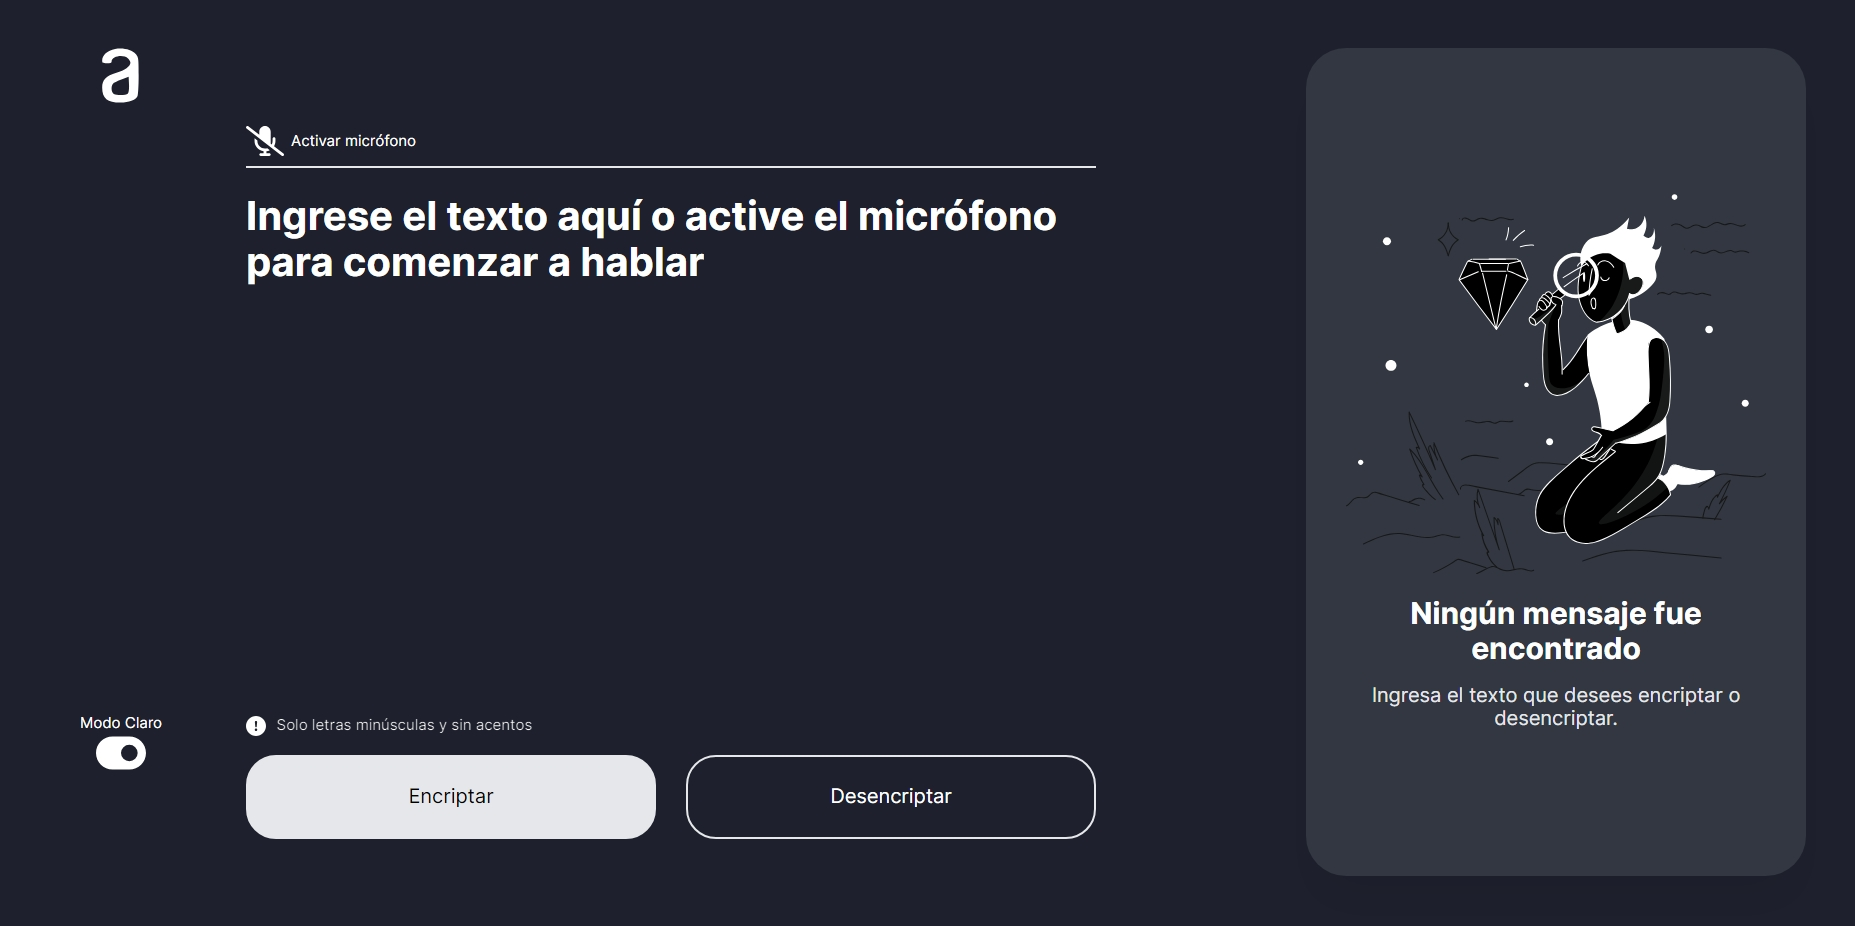
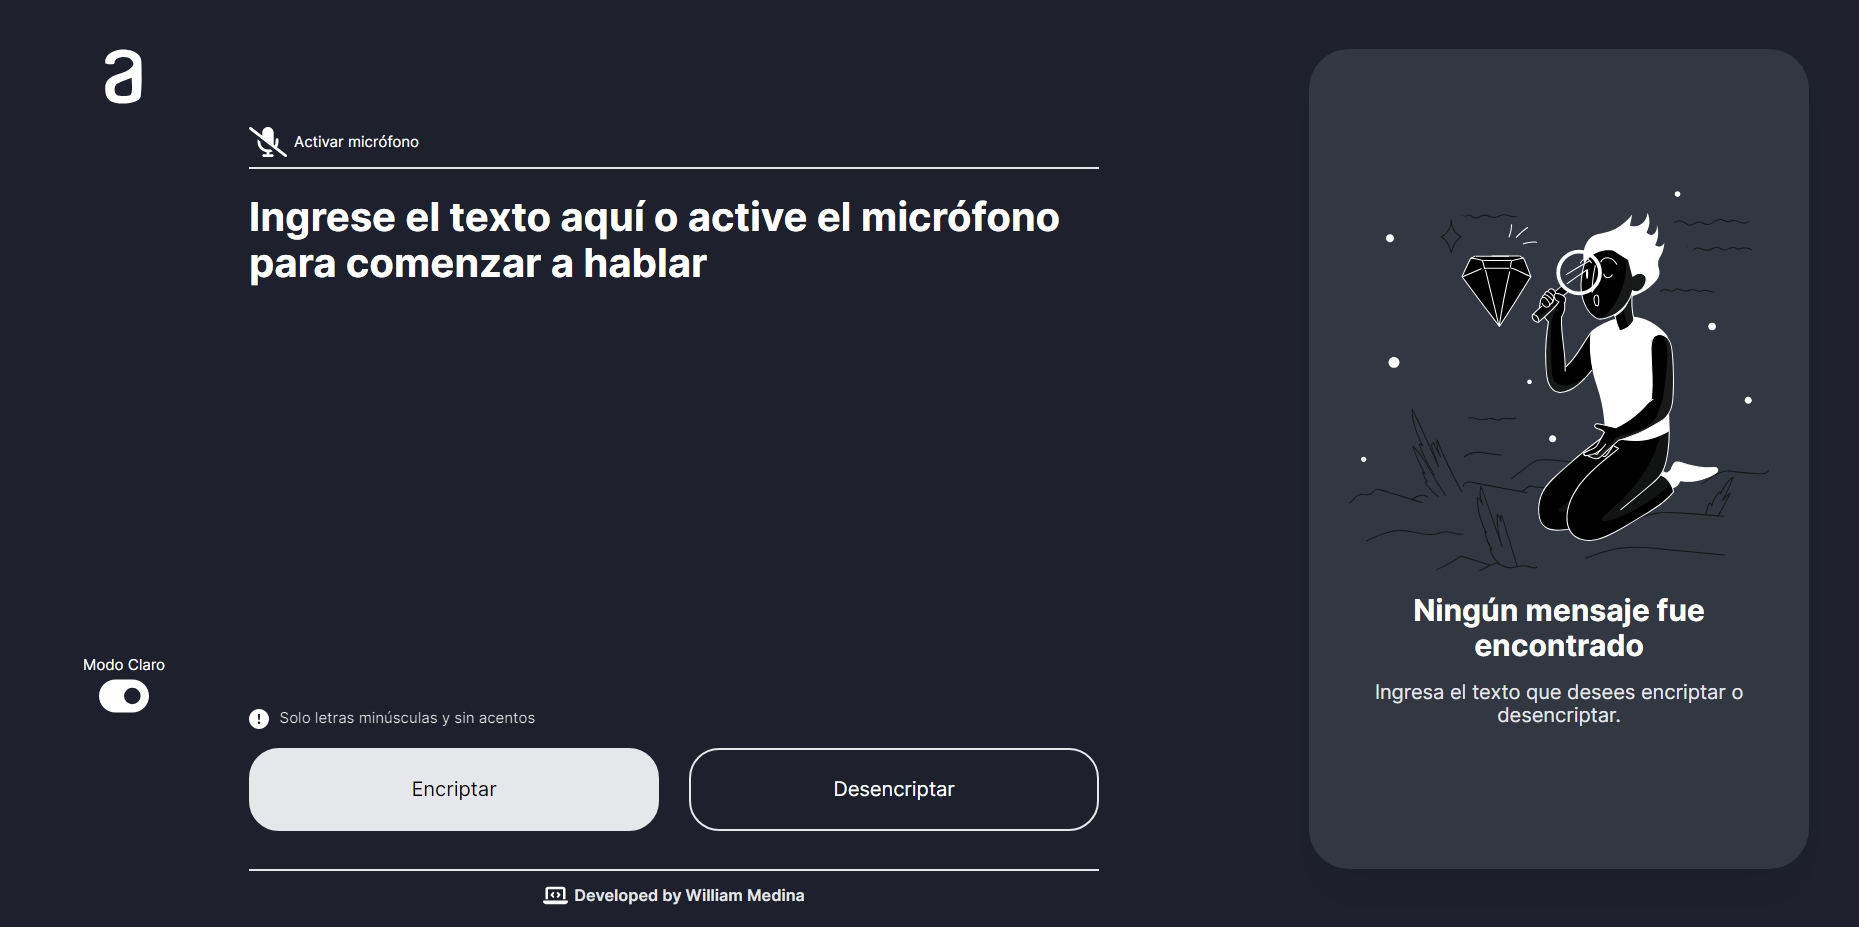
Añadir componente de footer a la aplicación

diff --git a/css/style.css b/css/style.css
@@ -29,11 +29,18 @@ html {
 body {
     background-color: var(--primary-color);
     font-family: var(--inter-font);
-    display: flex;
+    display: grid;
+    grid-template-columns: auto 1fr;
+    grid-template-rows: 1fr auto;
+    grid-template-areas:
+        "header main"
+        "footer footer";
     height: 100vh;
 }
 
 header {
+    width: auto;
+    grid-area: header;
     margin: 40px;
     display: flex;
     flex-direction: column;
@@ -41,10 +48,39 @@ header {
 }
 
 main {
+    grid-area: main;
     display: flex;
     justify-content: space-between;
     width: 100%;
 }
+
+footer {
+    grid-area: footer;
+    margin-left: 200px;
+}
+
+.footer__container {
+    display: flex;
+    justify-content: center;
+    margin-bottom: 15px;
+    border-top: 2px solid var(--secondary-color);
+    width: 680px;
+    padding-top: 10px;
+}
+
+.footer__icon {
+    height: 20px;
+    width: 20px;
+}
+
+.footer__text {
+    line-height: 2rem;
+    margin-left: 5px;
+    color: #495057;
+    text-align: center;
+    font-size: 1.3rem;
+    font-weight: 600;
+}   
 
 .header__logo {
     width: 120px;
@@ -127,7 +163,7 @@ main {
 .actions__buttons {
     display: flex;
     justify-content: space-between;
-    margin-bottom: 70px;
+    margin-bottom: 30px;
     gap: 10px;
 }
 
@@ -163,6 +199,7 @@ main {
     flex-direction: column;
     justify-content: center;
     margin: 40px;
+    margin-bottom: 0;
     background-color: var(--white-color);
     border-radius: 32px;
     width: 336px;
@@ -228,7 +265,7 @@ main {
 
 @media (max-width: 1300px) {
     .text-input {
-        width: 50%;
+        width: 60%;
     }
 
     .text-input__textarea {
@@ -239,13 +276,22 @@ main {
     .result__output {
         max-width: 330px;
     }
+
+    .footer__container {
+        width: calc(100% - 480px)
+    } 
 }
 
 @media (max-width: 768px) {
     body {
-        flex-direction: column;
         justify-content: center;
         height: auto;
+        grid-template-columns: 100%;
+        grid-template-rows: repeat(3, auto);
+        grid-template-areas:
+            "header"
+            "main"
+            "footer";
     }
 
     main {
@@ -256,6 +302,15 @@ main {
     header {
         margin-top: 74px;
         flex-direction: row;
+    }
+
+    footer {
+        margin-left: 0;
+    }
+
+    .footer__container {
+        margin: 60px 40px 20px;
+        width: auto;
     }
 
     .header__logo {
@@ -334,6 +389,11 @@ main {
     .text-input__microphone {
         margin: 20px;
     }
+
+    .footer__container {
+        margin: 60px 20px 20px;
+        width: auto;
+    }
     
 }
 
@@ -355,7 +415,8 @@ main {
     color: white;
 }
 
-.dark-mode .text-input__microphone {
+.dark-mode .text-input__microphone,
+.dark-mode .footer__container {
     color: white;
     border-color: var(--dark-secondary-color);
 }
@@ -367,7 +428,8 @@ main {
 .dark-mode .dark-mode-toggle__button, 
 .dark-mode .header__logo,
 .dark-mode .actions__info, 
-.dark-mode .result__message__img {
+.dark-mode .result__message__img,
+.dark-mode .footer__icon {
     filter: invert(100%);
 }
 
@@ -389,7 +451,8 @@ main {
 
 .dark-mode .result__text,
 .dark-mode .result__copy-message,
-.dark-mode .result__message__text {
+.dark-mode .result__message__text,
+.dark-mode .footer__text {
     color: var(--dark-secondary-color);
 }
 

diff --git a/index.html b/index.html
@@ -51,6 +51,12 @@
             </div>
         </section>
     </main>
+    <footer>
+        <div class="footer__container">
+            <img class="footer__icon" src="./assets//laptop-code.svg" alt="Logo Footer">
+            <p class="footer__text">Developed by William Medina</p>
+        </div>
+    </footer>
     <script src="js/app.js"></script>
 </body>
 </html>
